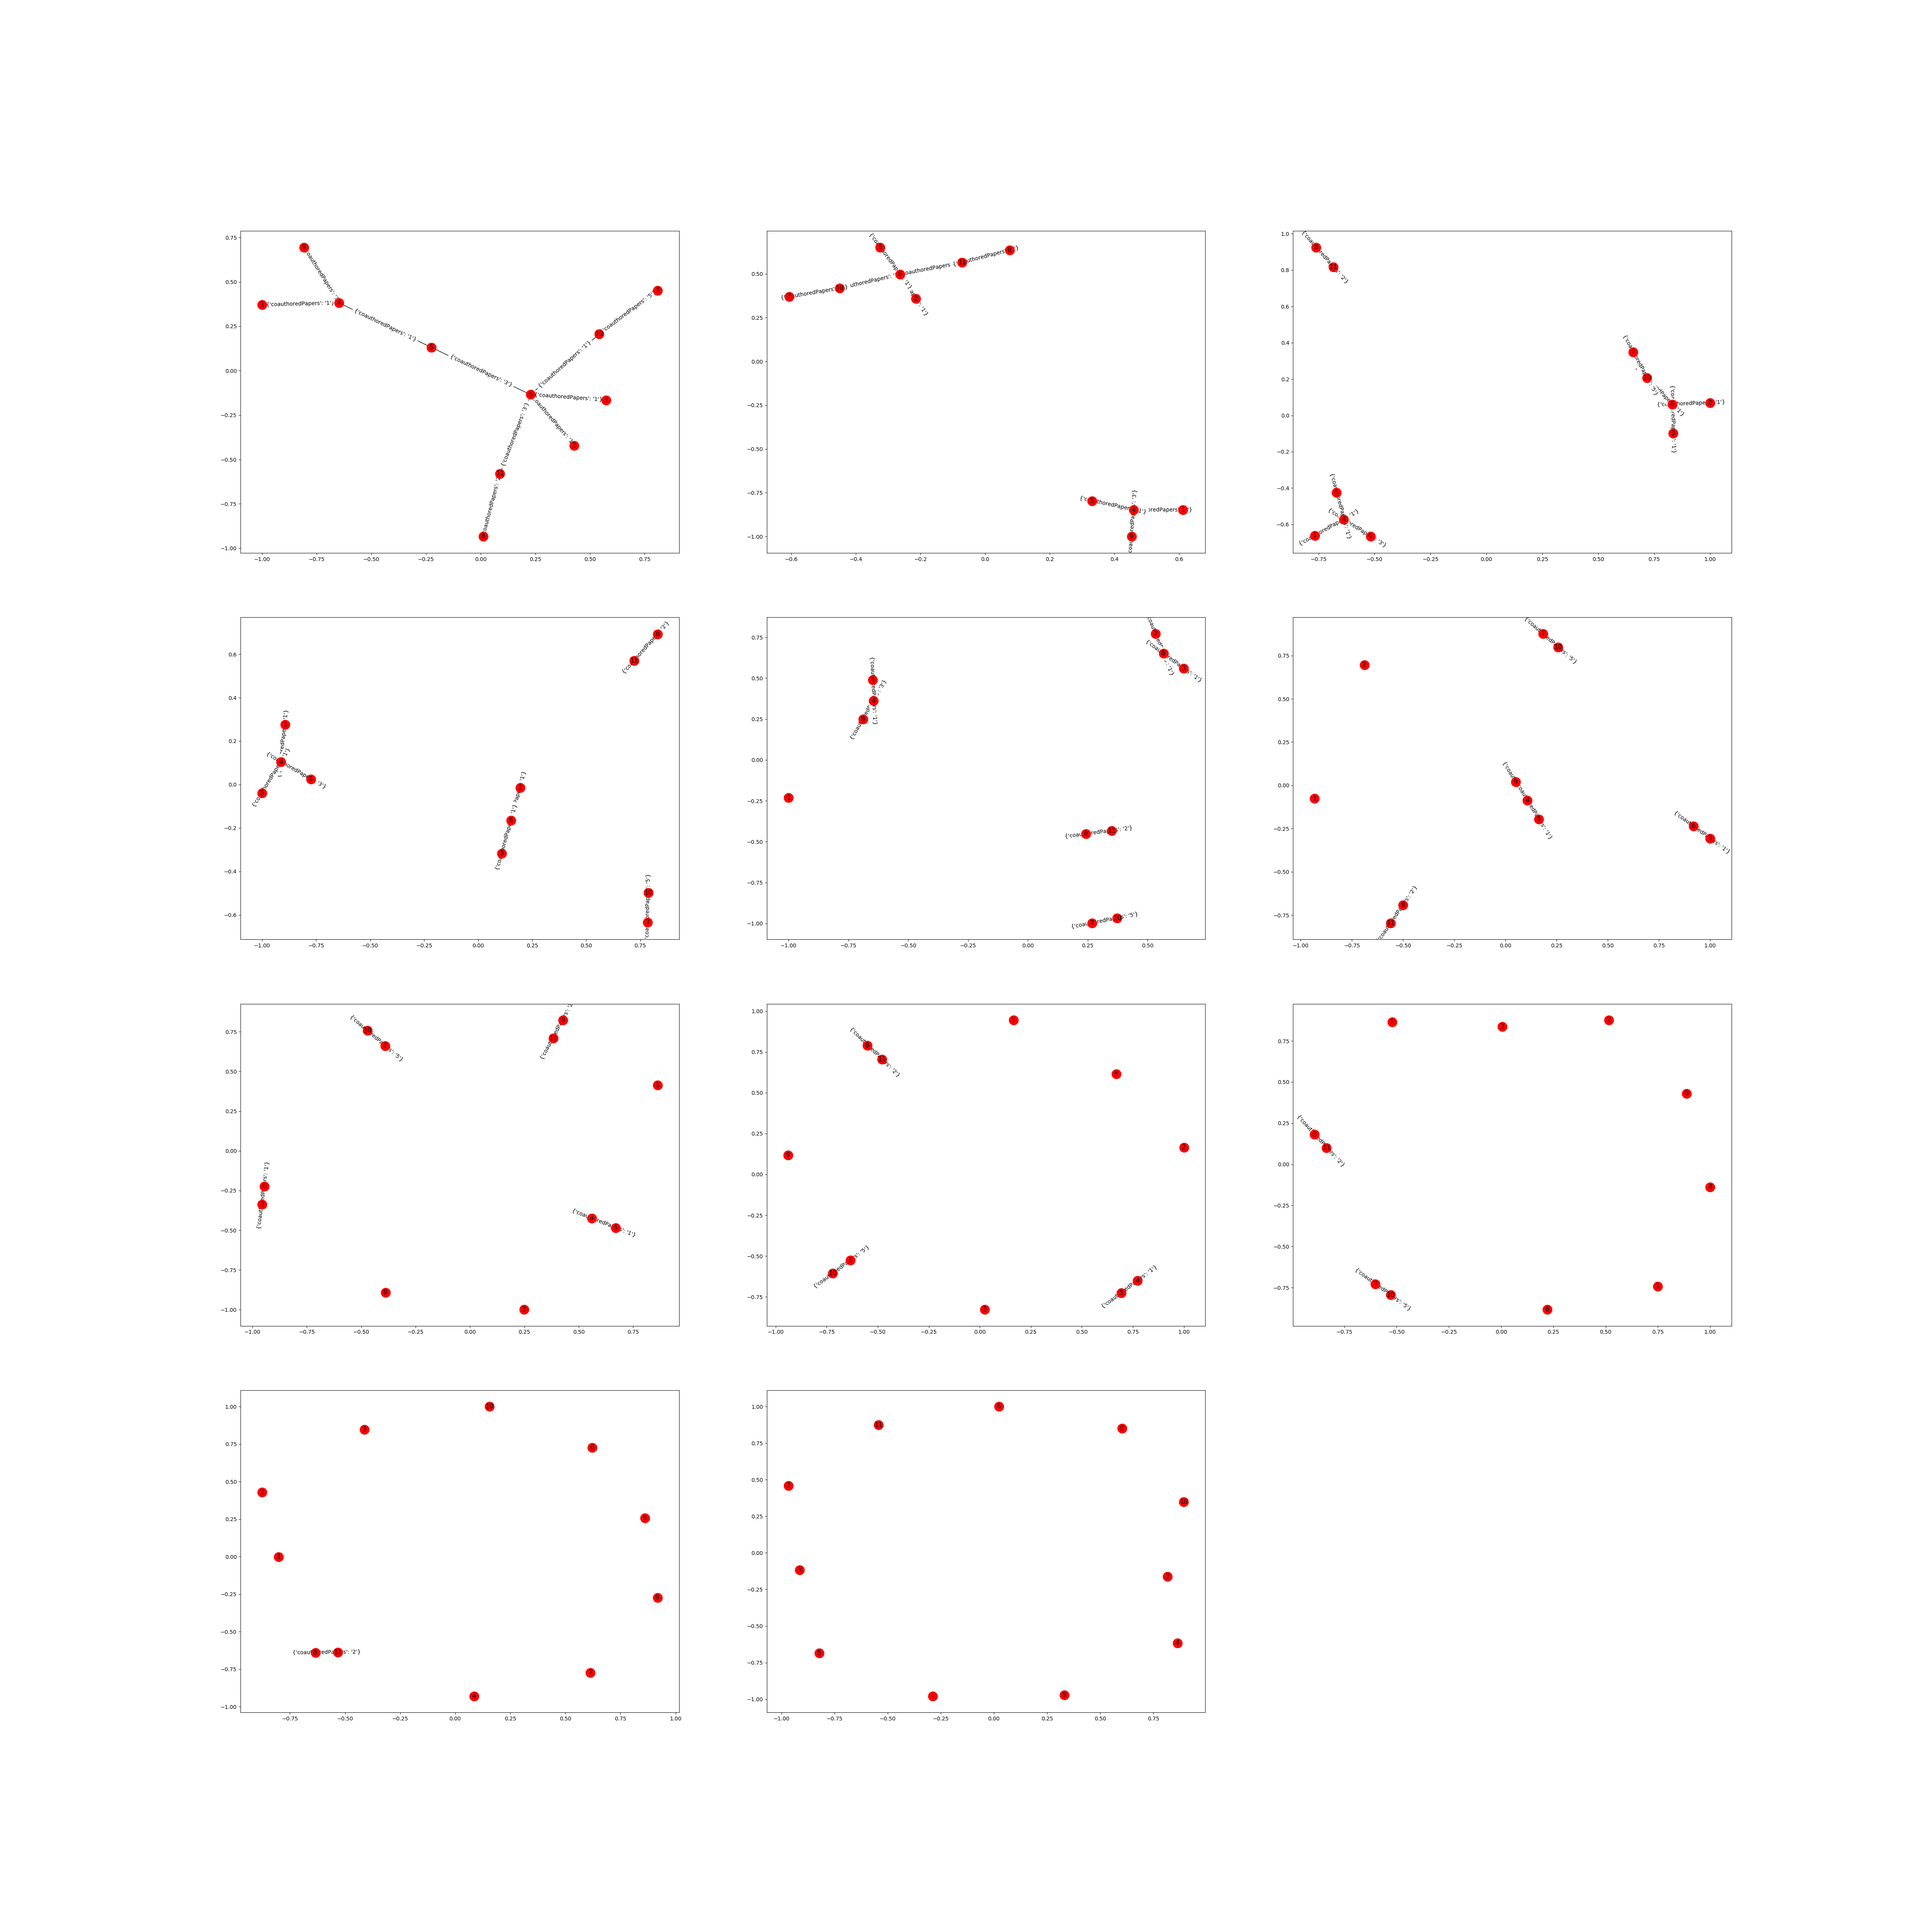
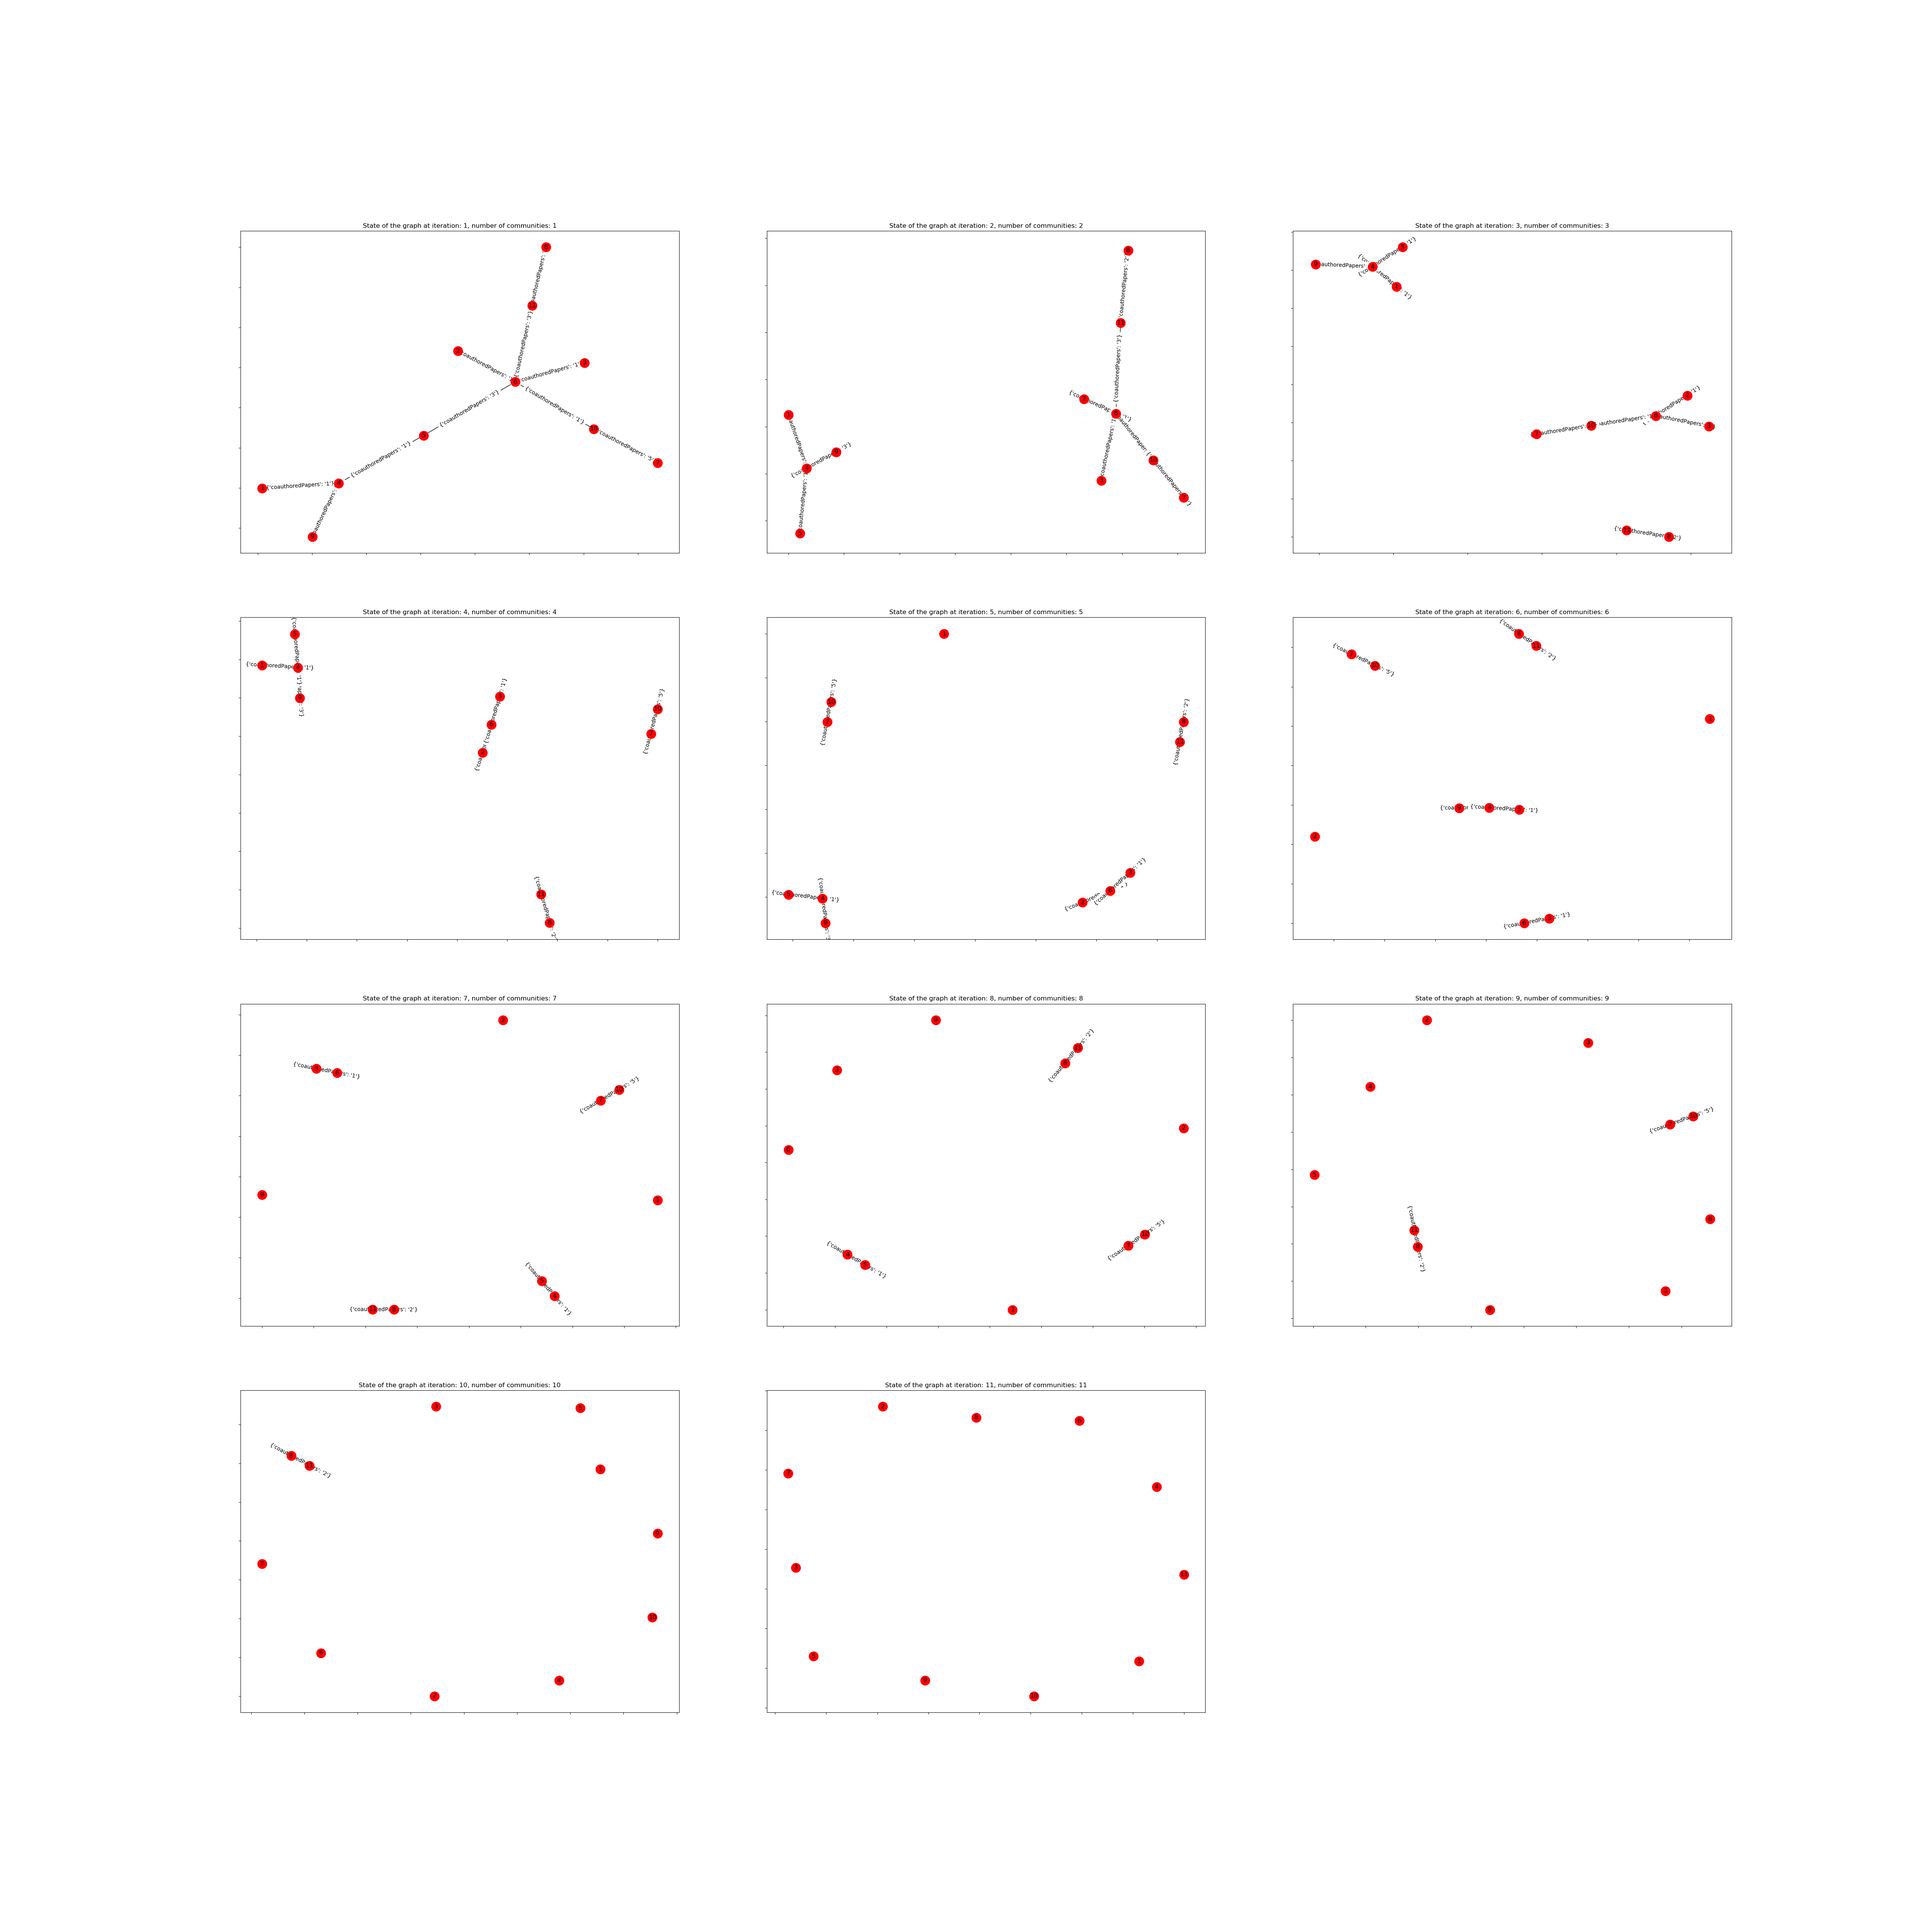
Improvement of the visualization: title added and deletion of the scale of each subgraph

diff --git a/project.py b/project.py
@@ -123,7 +123,10 @@ def drawGraph(G):
     plt.show()
 
 def drawGraphs(G, cnt):
-    plt.subplot(4, 3, cnt)
+    test = plt.subplot(4, 3, cnt)
+    test.title.set_text('State of the graph at iteration: ' + str(cnt) + ", number of communities: " + str(nx.number_connected_components(G)))
+    test.set_yticklabels([])
+    test.set_xticklabels([])
     pos = nx.spring_layout(G)
     nx.draw_networkx(G, pos, with_labels=True)
     nx.draw_networkx_edge_labels(G, pos)
@@ -132,7 +135,7 @@ def drawGraphs(G, cnt):
 # Implementation of the Girvan-Newman clustering algorithm
 def girvanNewmanClustering(graph, nbIteration):
     edges = list(graph.edges)
-    fig = plt.figure(figsize=(50,50))
+    fig = plt.figure(figsize=(50, 50))
     drawGraphs(graph, 1)
     cnt = 2
 
